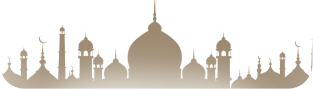
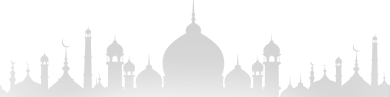
Complete Radio tab UI.

diff --git a/lib/ui/home/tabs/radio/radio_item_card.dart b/lib/ui/home/tabs/radio/radio_item_card.dart
@@ -1,0 +1,96 @@
+import 'package:flutter/material.dart';
+
+import '../../../../utils/app_assets.dart';
+import '../../../../utils/app_colors.dart';
+import '../../../../utils/app_styles.dart';
+import '../../../../utils/size_utils.dart';
+
+class RadioItemCard extends StatefulWidget {
+  String name;
+
+  RadioItemCard({super.key, required this.name});
+
+  @override
+  State<RadioItemCard> createState() => _RadioItemCardState();
+}
+
+class _RadioItemCardState extends State<RadioItemCard> {
+  bool isMute = false;
+  bool isPlaying = false;
+
+  @override
+  Widget build(BuildContext context) {
+    return Container(
+      height: SizeConfig.height(context) * .2,
+      decoration: BoxDecoration(
+        color: AppColors.primaryColor,
+        borderRadius: BorderRadius.circular(20),
+      ),
+      child: Stack(
+        alignment: Alignment.bottomCenter,
+        children: [
+          ClipRRect(
+            borderRadius: BorderRadius.circular(20),
+            child: isPlaying
+                ? Image.asset(
+                    AppImages.audio,
+                    width: double.infinity,
+                    fit: BoxFit.cover,
+                  )
+                : Image.asset(
+                    AppImages.hadethfooter,
+                    width: double.infinity,
+                    fit: BoxFit.fitWidth,
+                  ),
+          ),
+          Column(
+            mainAxisAlignment: MainAxisAlignment.spaceEvenly,
+            children: [
+              Text(widget.name, style: AppStyles.bold24black),
+              Row(
+                mainAxisAlignment: MainAxisAlignment.center,
+                children: [
+                  InkWell(
+                    borderRadius: BorderRadius.circular(30),
+                    onTap: () {
+                      setState(() {
+                        isPlaying = !isPlaying;
+                      });
+                    },
+                    child: Padding(
+                      padding: const EdgeInsets.all(8),
+                      child: ImageIcon(
+                        AssetImage(isPlaying ? AppIcons.play : AppIcons.puse),
+                        size: 32,
+                        color: AppColors.blackColor,
+                      ),
+                    ),
+                  ),
+                  SizedBox(width: SizeConfig.width(context) * .05),
+                  InkWell(
+                    borderRadius: BorderRadius.circular(30),
+                    onTap: () {
+                      setState(() {
+                        isMute = !isMute;
+                      });
+                    },
+                    child: Padding(
+                      padding: const EdgeInsets.all(8),
+                      child: ImageIcon(
+                        AssetImage(
+                          isMute ? AppIcons.muteVolume : AppIcons.highVolume,
+                        ),
+                        size: 30,
+                        color: Colors.black,
+                      ),
+                    ),
+                  ),
+                ],
+              ),
+            ],
+          ),
+        ],
+      ),
+    );
+  }
+}

diff --git a/lib/ui/home/tabs/radio/tab_selector.dart b/lib/ui/home/tabs/radio/tab_selector.dart
@@ -1,0 +1,63 @@
+import 'package:flutter/material.dart';
+import 'package:islami_app/utils/app_colors.dart';
+import 'package:islami_app/utils/app_strings.dart';
+import 'package:islami_app/utils/app_styles.dart';
+import 'package:islami_app/utils/size_utils.dart';
+
+class TabSelector extends StatefulWidget {
+  final ValueChanged<int>? onChanged;
+
+  const TabSelector({super.key, this.onChanged});
+
+  @override
+  State<TabSelector> createState() => _TabSelectorState();
+}
+
+class _TabSelectorState extends State<TabSelector> {
+  int selectedTab = 0;
+
+  @override
+  Widget build(BuildContext context) {
+    return Container(
+      height: SizeConfig.height(context) * .05,
+      decoration: BoxDecoration(
+        color: AppColors.transBlackColor,
+        borderRadius: BorderRadius.circular(12),
+      ),
+      child: Row(
+        children: [
+          _tabItem(AppStrings.radio, 0),
+          _tabItem(AppStrings.reciters, 1),
+        ],
+      ),
+    );
+  }
+
+  Widget _tabItem(String title, int index) {
+    final bool isSelected = selectedTab == index;
+
+    return Expanded(
+      child: GestureDetector(
+        onTap: () {
+          setState(() => selectedTab = index);
+          widget.onChanged?.call(index);
+        },
+        child: AnimatedContainer(
+          duration: const Duration(milliseconds: 200),
+          curve: Curves.easeInOut,
+          decoration: BoxDecoration(
+            color: isSelected ? AppColors.primaryColor : AppColors.transparent,
+            borderRadius: BorderRadius.circular(12),
+          ),
+          alignment: Alignment.center,
+          child: Text(
+            title,
+            style: AppStyles.bold16white.copyWith(
+              color: isSelected ? AppColors.blackColor : AppColors.whiteColor,
+            ),
+          ),
+        ),
+      ),
+    );
+  }
+}

diff --git a/lib/ui/home/tabs/radio/radio_tab.dart b/lib/ui/home/tabs/radio/radio_tab.dart
@@ -1,11 +1,53 @@
 import 'package:flutter/material.dart';
+import 'package:islami_app/ui/home/tabs/radio/radio_list.dart';
+import 'package:islami_app/ui/home/tabs/radio/reciters_list.dart';
+import 'package:islami_app/ui/home/tabs/radio/tab_selector.dart';
 
-class RadioTab extends StatelessWidget {
+import '../../../../utils/app_colors.dart';
+
+class RadioTab extends StatefulWidget {
   const RadioTab({super.key});
 
   @override
+  State<RadioTab> createState() => _RadioTabState();
+}
+
+class _RadioTabState extends State<RadioTab> {
+  int selectedIndex = 0;
+
+  final List<Widget> tabs = [
+    RadioList(),
+    RecitersList(),
+  ];
+
+  @override
   Widget build(BuildContext context) {
-    // TODO: implement build
-    return Placeholder(color: Colors.yellow);
+    return Scaffold(
+      backgroundColor: AppColors.transparent,
+      body: SafeArea(
+        child: Padding(
+          padding: const EdgeInsets.all(8),
+          child: Column(
+            children: [
+              const SizedBox(height: 20),
+
+              TabSelector(
+                onChanged: (index) {
+                  setState(() {
+                    selectedIndex = index;
+                  });
+                },
+              ),
+
+              const SizedBox(height: 16),
+
+              Expanded(
+                child: tabs[selectedIndex],
+              ),
+            ],
+          ),
+        ),
+      ),
+    );
   }
 }

diff --git a/lib/ui/home/tabs/radio/radio_list.dart b/lib/ui/home/tabs/radio/radio_list.dart
@@ -1,0 +1,27 @@
+import 'package:flutter/cupertino.dart';
+import 'package:islami_app/ui/home/tabs/radio/radio_item_card.dart';
+import 'package:islami_app/utils/size_utils.dart';
+
+class RadioList extends StatelessWidget {
+  List<String> channels = [
+    'Quran Kareem Radio 1',
+    'Quran Kareem Radio 2',
+    'Quran Kareem Radio 3',
+    'Quran Kareem Radio 4',
+    'Quran Kareem Radio 5',
+    'Quran Kareem Radio 6',
+  ];
+
+  @override
+  Widget build(BuildContext context) {
+    return ListView.separated(
+      itemBuilder: (context, index) {
+        return RadioItemCard(name: channels[index]);
+      },
+      itemCount: channels.length,
+      separatorBuilder: (BuildContext context, int index) {
+        return SizedBox(height: SizeConfig.height(context) * .02);
+      },
+    );
+  }
+}

diff --git a/lib/ui/home/tabs/radio/reciters_list.dart b/lib/ui/home/tabs/radio/reciters_list.dart
@@ -1,0 +1,27 @@
+import 'package:flutter/cupertino.dart';
+import 'package:islami_app/ui/home/tabs/radio/radio_item_card.dart';
+import 'package:islami_app/utils/size_utils.dart';
+
+class RecitersList extends StatelessWidget {
+  List<String> reciters = [
+    'Ibrahim Al-Akdar',
+    'Akram Alalaqmi',
+    'Majed Al-Enezi',
+    'Malik shaibat Alhamed',
+    'Abdullah Bsfar',
+    'Yasir al-Dawsari',
+  ];
+
+  @override
+  Widget build(BuildContext context) {
+    return ListView.separated(
+      itemBuilder: (context, index) {
+        return RadioItemCard(name: reciters[index]);
+      },
+      itemCount: reciters.length,
+      separatorBuilder: (BuildContext context, int index) {
+        return SizedBox(height: SizeConfig.height(context) * .02);
+      },
+    );
+  }
+}

diff --git a/lib/utils/app_assets.dart b/lib/utils/app_assets.dart
@@ -19,6 +19,7 @@ class AppImages {
   static const String globalFooter = 'assets/images/global_footer.png';
   static const String hadethBg = 'assets/images/hadeth_item_bg.png';
   static const String hadethfooter = 'assets/images/hadeth_footer.png';
+  static const String audio = 'assets/images/running.png';
 }
 
 class AppIcons {
@@ -29,4 +30,8 @@ class AppIcons {
   static const String sebhaIcon = "${_base}sebha_icon.png";
   static const String radioIcon = "${_base}radio_icon.png";
   static const String timeIcon = "${_base}time_icon.png";
+  static const String puse = "${_base}puse.png";
+  static const String play = "${_base}play.png";
+  static const String highVolume = "${_base}Volume High.png";
+  static const String muteVolume = "${_base}mute.png";
 }

diff --git a/lib/utils/app_colors.dart b/lib/utils/app_colors.dart
@@ -5,5 +5,7 @@ class AppColors {
   static const Color brownColor = Color(0xff856B3F);
   static const Color whiteColor = Color(0xffFFFFFF);
   static const Color blackColor = Color(0xff202020);
+  static const Color transBlackColor = Color(0xB3202020);
   static const Color greyColor = Color(0xff707070);
+  static const Color transparent = Color(0x00000000);
 }

diff --git a/lib/utils/app_strings.dart b/lib/utils/app_strings.dart
@@ -22,4 +22,5 @@ class AppStrings {
   static const String suraName = 'Sura Name';
   static const String mostRecent = 'Most Recently';
   static const String surasList = 'Suras List';
+  static const String reciters = "Reciters";
 }

diff --git a/lib/utils/size_utils.dart b/lib/utils/size_utils.dart
@@ -1,0 +1,7 @@
+import 'package:flutter/cupertino.dart';
+
+class SizeConfig {
+  static double height(context) => MediaQuery.of(context).size.height;
+
+  static double width(context) => MediaQuery.of(context).size.width;
+}
